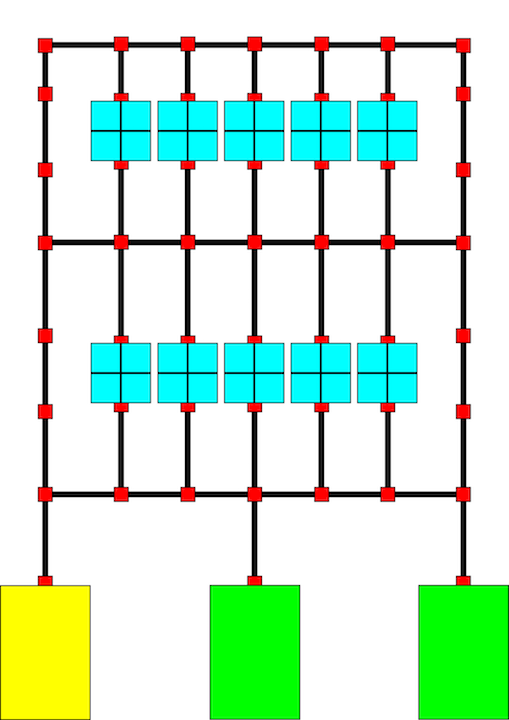
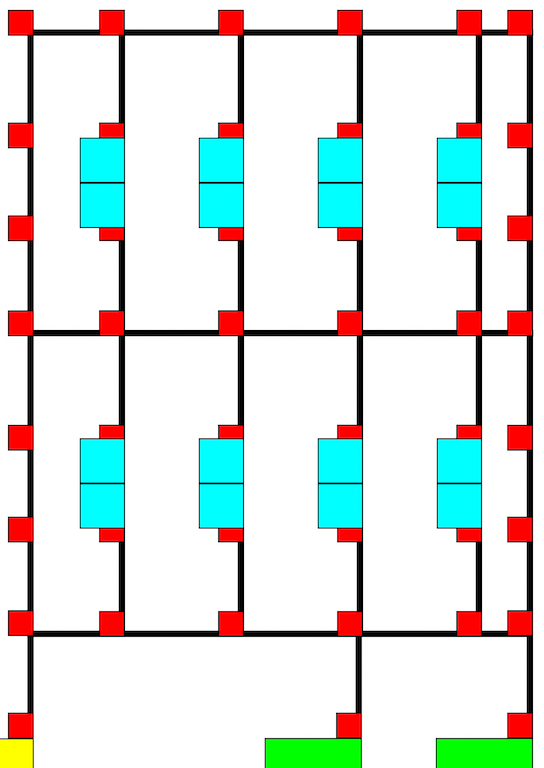
now shows sensors and robots + map

diff --git a/WebServer/public/js/controllers/overview_controller.js b/WebServer/public/js/controllers/overview_controller.js
@@ -5,36 +5,59 @@
 
   app.controller('overviewController', ['$scope','angularBase','$http', function($scope, angularBase,$http) {
     var that = this;
-    $scope.map;
-    var img = document.getElementById('map_img');
+    var crossroad;
+    var img = new Image();
+    img.onload = function() {
+      context.drawImage(img, 0, 0, 381, 537);
+    }
+    img.src= "/static/pictures/GSPD_Layout.png";
+
+    /*$http.get('http://localhost:3000/map')
+    .then(function(map) {
+      console.log("awuba");
+      var map = map.data;
+      crossroad = new Image();
+      crossroad.onload = function() {
+      that.drawMap(map.nodes);
+      }
+      crossroad.src= "/static/pictures/crossroad_nswe.png";
+    })
+    .catch(function(errRes) {
+      console.log(errRes);
+    });*/
     
     var canvas = document.getElementById('canvas');
     var context = canvas.getContext('2d');
-    context.drawImage(img, 0, 0);
+    canvas.width = 381;
+    canvas.height = 537;
 
     //Set parameters
     this.tileSize = 50;
-    context.fillStyle = "rgba(255,0,0,0.6)";
 
     this.base = angularBase("http://localhost:27019","map");
     var map = that.base.getAll();
 
+    this.drawTile = function(x,y){
+      context.drawImage(
+      crossroad,
+      x*this.tileSize, y*this.tileSize
+    )};
+    
     this.drawMap = function(nodes) { 
-      canvas.width = 7*50;
-      canvas.height = 7*50;
-      var im = $scope.crossroad;
+      var im = crossroad;
         for(var i in nodes){
+          that.drawTile(nodes[i].x, nodes[i].y)
         }
     }
 
-    this.drawTile = function(x,y){
-      context.fillRect(
-      x * this.tileSize, y * this.tileSize,
-      this.tileSize, this.tileSize
-    )};
+      var Sensors = angularBase("http://localhost:27018","sensors");
 
-    
- 
+      $scope.sensors = Sensors.getAll();
+
+      var Robots = angularBase("http://localhost:27019","robots");
+
+      $scope.robots = Robots.getAll();
+
   }]);
 
 })();

diff --git a/WebServer/app/mongoHandler.js b/WebServer/app/mongoHandler.js
@@ -167,7 +167,7 @@ module.exports = (app,mongo) => {
   	// Start a MongoConnection
 	var m = new MongoConnection({
 	SocketIOPorts: [socketPort,socketPort+1], // SocketIO port, one for each collection!
-	Collections: ["sensors","map"], // we have the robograb collection
+	Collections: ["sensors","robots"], // we have the robograb collection
 	Database: "warehouseSWE", // database name
 	MongoServer:"localhost" // server name
 	});
